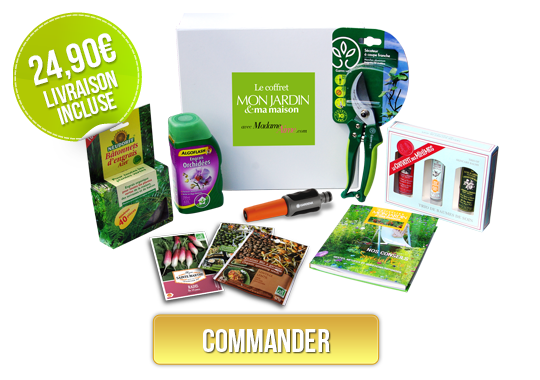
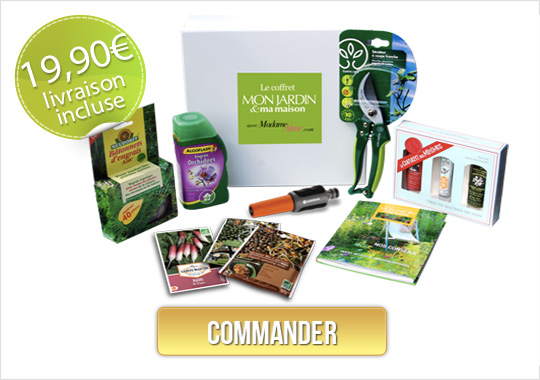
Update summer box price from 24.90e to 19.90e

diff --git a/www/mmm/templates/boxes/le-comptoir-sante.html b/www/mmm/templates/boxes/le-comptoir-sante.html
@@ -1,0 +1,110 @@
+{% extends "mmm/skeleton.html" %}
+{% block head_title %}Les coffrets cadeaux de Madame Aime{% endblock %}
+{% block meta_description %}Découvrez tous les coffrets cadeaux confectionnés par Madame Aime{% endblock %}
+{% block mmm_content %}
+<section id="box">
+  <div class="description clearfix">
+    <div class="photo pull-left">
+      <img src="{{STATIC_URL}}img/boxes/2012-dec/photo.png" alt="Coffret de Noël"/>
+    </div>
+    <div class="text pull-right">
+      <h1>Madame Aime - Noël 2012</h1>
+      <p>
+        Pour Noël, je fais un vœu…<br />
+        Celui de pouvoir tester toujours plus de produits de beauté<br />
+        Celui de pouvoir obtenir de bonnes idées déco faciles à réaliser<br />
+        Celui de pouvoir goûter à de nouvelles recettes parfumées<br />
+        Et le tout chaque mois, dans un coffret<br />
+        Vœu exaucé<br />
+        « Madame aime est née »
+      </p>
+      <p>
+        Pour sa 1ere édition, Madame Aime vous a concocté un menu spécial Hiver&nbsp;:<br />
+        - Prenez soin de vos mains avec Jeanne M.<br />
+        - Détendez vous Au Pays de la Fleur d'Oranger<br />
+        - Dégustez quelques douceurs avec NEWTREE<br />
+        - Régalez vos proches avec des cafés gourmands
+      </p>
+    </div>
+  </div>
+
+  <div class="products">
+    <div class="row-fluid">
+      <div class="span4 product row-fluid">
+        <div class="span5 image">
+          <img src="{{STATIC_URL}}img/brands/jeanne-m/image.png" alt="" />
+        </div>
+        <div class="span7 details">
+          <h2>Jeanne M.</h2>
+          <p>
+            Helixir soin pour les mains Peaux Matures
+          </p>
+        </div>
+        <a class="shiny" href="{% url 'brands/jeanne-m' %}">Découvrir</a>
+      </div>
+
+      <div class="span4 product row-fluid">
+        <div class="span4 image">
+          <img src="{{STATIC_URL}}img/brands/au-pays-de-la-fleur-d-oranger/image.png" alt="" />
+        </div>
+        <div class="span8 details">
+          <h2>Au pays de la fleur d'oranger</h2>
+          <p>
+            Gel douche à la Fleur d'Oranger
+          </p>
+        </div>
+        <a class="shiny" href="{% url 'brands/au-pays-de-la-fleur-d-oranger' %}">Découvrir</a>
+      </div>
+
+      <div class="span4 product row-fluid">
+        <div class="span6 image">
+          <img src="{{STATIC_URL}}img/brands/newtree/image.png" alt="" />
+        </div>
+        <div class="span6 details">
+          <h2>Newtree</h2>
+          <p>
+            Perles de fruits enrobées de chocolat
+          </p>
+        </div>
+        <a class="shiny" href="{% url 'brands/newtree' %}">Découvrir</a>
+      </div>
+    </div>
+
+    <div class="row-fluid">
+      <div class="span4 product row-fluid">
+        <div class="span6 image">
+          <img src="{{STATIC_URL}}img/brands/marabout/image.png" alt="" />
+        </div>
+        <div class="span6 details">
+          <h2>Marabout</h2>
+          <p>
+            Livre de recettes<br />
+            Tout petits cannelés &amp;&nbsp;financiers
+          </p>
+        </div>
+        <a class="shiny" target="_blank" href="http://www.marabout.com/">Découvrir</a>
+      </div>
+
+      <div class="span8 next padded">
+        <img src="{{STATIC_URL}}img/boxes/2012-dec/poster.png" alt="" />
+        <p>
+          Madame Aime est le premier coffret pour les femmes à partir de 40 ans.
+        </p>
+        <div class="mag">
+          <p>
+            Coffret Noel 2012
+          </p>
+          <a id="open-mag" target="_blank" class="shiny" href="http://issuu.com/madameaime/docs/mag_madameaime_dec12?mode=window">Consulter le mag</a>
+        </div>
+        <div class="more">
+          <p>
+            Prochain Coffret
+          </p>
+          <a class="shiny" href="{% url 'offer' %}">J'en profite</a>
+        </div>
+      </div>
+    </div>
+  </div>
+  {% include 'boxes/previous.html' %}
+</section>
+{% endblock %}

diff --git a/www/mmm/templates/boxes/2013-jun.html b/www/mmm/templates/boxes/2013-jun.html
@@ -6,9 +6,9 @@
   <div class="description clearfix">
     <div class="photo pull-left" style="width: 490px;">
       <form method="post" action="{% url 'emarket:shopping-cart.add' %}">
-	{% csrf_token %}
-	<input type="hidden" name="sale_id" value="18" />
-        <input type="image" src="{{ STATIC_URL }}img/boxes/2013-jun/photo.png" alt="Coffret Mon Jardin & Ma Maison - Eté"/>
+          {% csrf_token %}
+          <input type="hidden" name="sale_id" value="19" />
+          <input type="image" src="{{ STATIC_URL }}img/boxes/2013-jun/photo.png" alt="Coffret Mon Jardin & Ma Maison - Eté"/>
       </form>
     </div>
     <div class="text pull-right" style="width: 450px;">
@@ -21,10 +21,11 @@
         - Sachet de graines de radis - Ferme de Sainte Marthe<br />
         - 2 sachets de graines à germer bio - Radis et Capucine<br />
         - Baumes pour les mains, lèvres et pieds - Le Couvent des Minimes<br />
-        - Livre nos conseils “Spécial Eté” - Mon Jardin & Ma Maison
+        - Livre nos conseils “Spécial Eté” - Mon Jardin &amp; Ma Maison
       </p>
       <p style="font-size: 90%; font-weight: bold; margin-top: 30px; text-align: center" class="pink">
-        Un coffret dont la valeur totale dépasse les 60€ et vendu au tarif de 24,90€ !
+        Un coffret dont la valeur totale dépasse les 60€ et vendu au tarif de
+        19,90€ !
       </p>
     </div>
   </div>
@@ -117,9 +118,9 @@
         </p>
         <p>
           <form method="post" action="{% url 'emarket:shopping-cart.add' %}">
-	    {% csrf_token %}
-	    <input type="hidden" name="sale_id" value="18" />
-            <input type="image" src="{{ STATIC_URL }}img/boxes/new_profit.png" alt="J’en profite" />
+              {% csrf_token %}
+              <input type="hidden" name="sale_id" value="19" />
+              <input type="image" src="{{ STATIC_URL }}img/boxes/new_profit.png" alt="J’en profite" />
           </form>
         </p>
       </div>

diff --git a/www/mmm/templates/order.html b/www/mmm/templates/order.html
@@ -9,8 +9,8 @@
       <div class="active item">
         <form method="post" action="{% url 'emarket:shopping-cart.add' %}">
           {% csrf_token %}
-          <input type="hidden" name="sale_id" value="18" />
-          <input type="image" src="{{ STATIC_URL }}img/slides/slide-jardin.png" alt="" />
+          <input type="hidden" name="sale_id" value="19" />
+          <input type="image" src="{{ STATIC_URL }}img/slides/slide-jardin-reduc.jpg" alt="" />
         </form>
       </div>
       <div class="item">

diff --git a/www/mmm/templates/homepage.html b/www/mmm/templates/homepage.html
@@ -8,7 +8,7 @@
       <div class="active item">
         <form method="post" action="{% url 'emarket:shopping-cart.add' %}">
           {% csrf_token %}
-          <input type="hidden" name="sale_id" value="18" />
+          <input type="hidden" name="sale_id" value="19" />
           <input type="image" src="{{ STATIC_URL }}img/slides/slide-jardin-reduc.jpg" alt="" />
         </form>
       </div>
